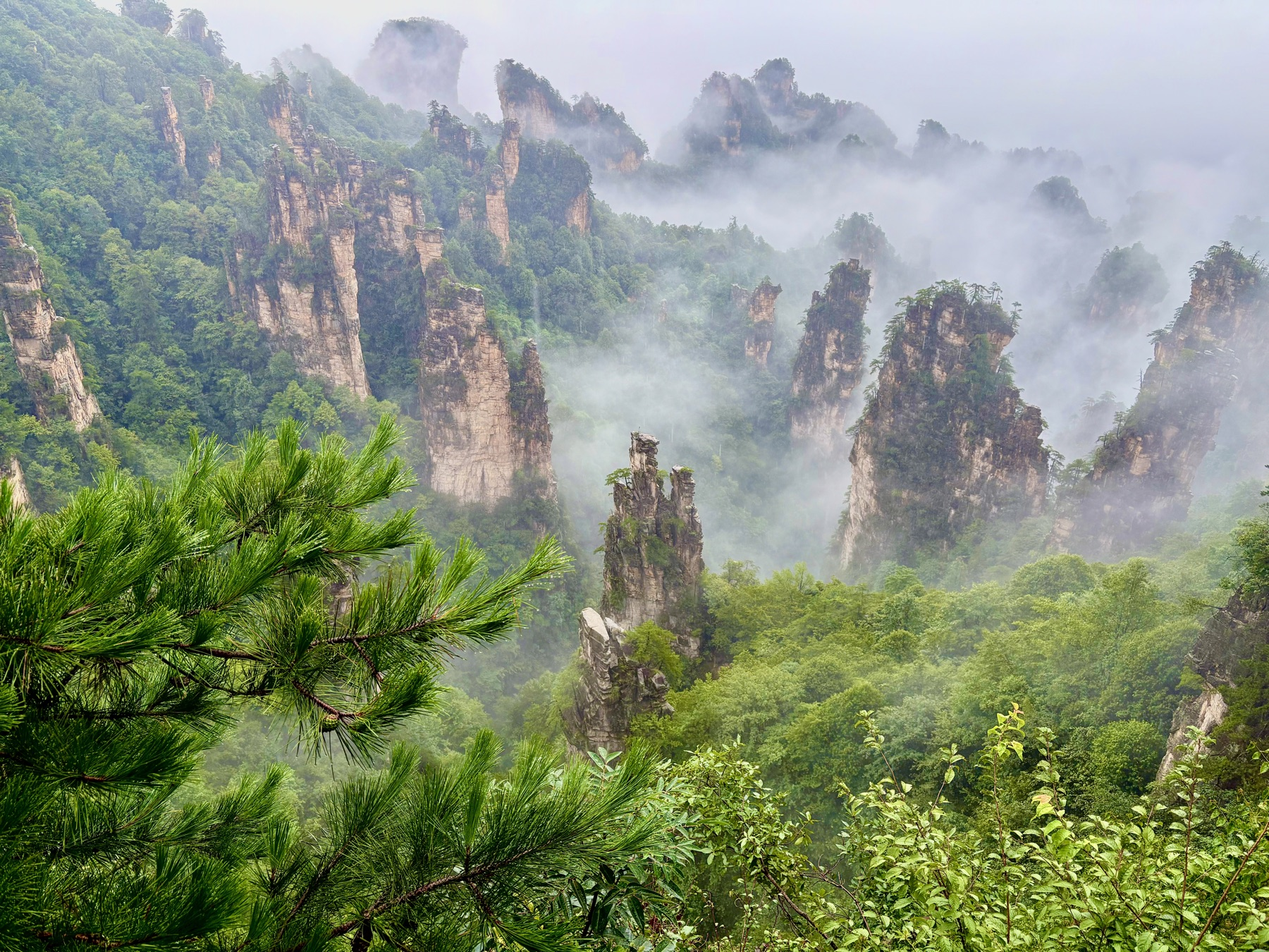
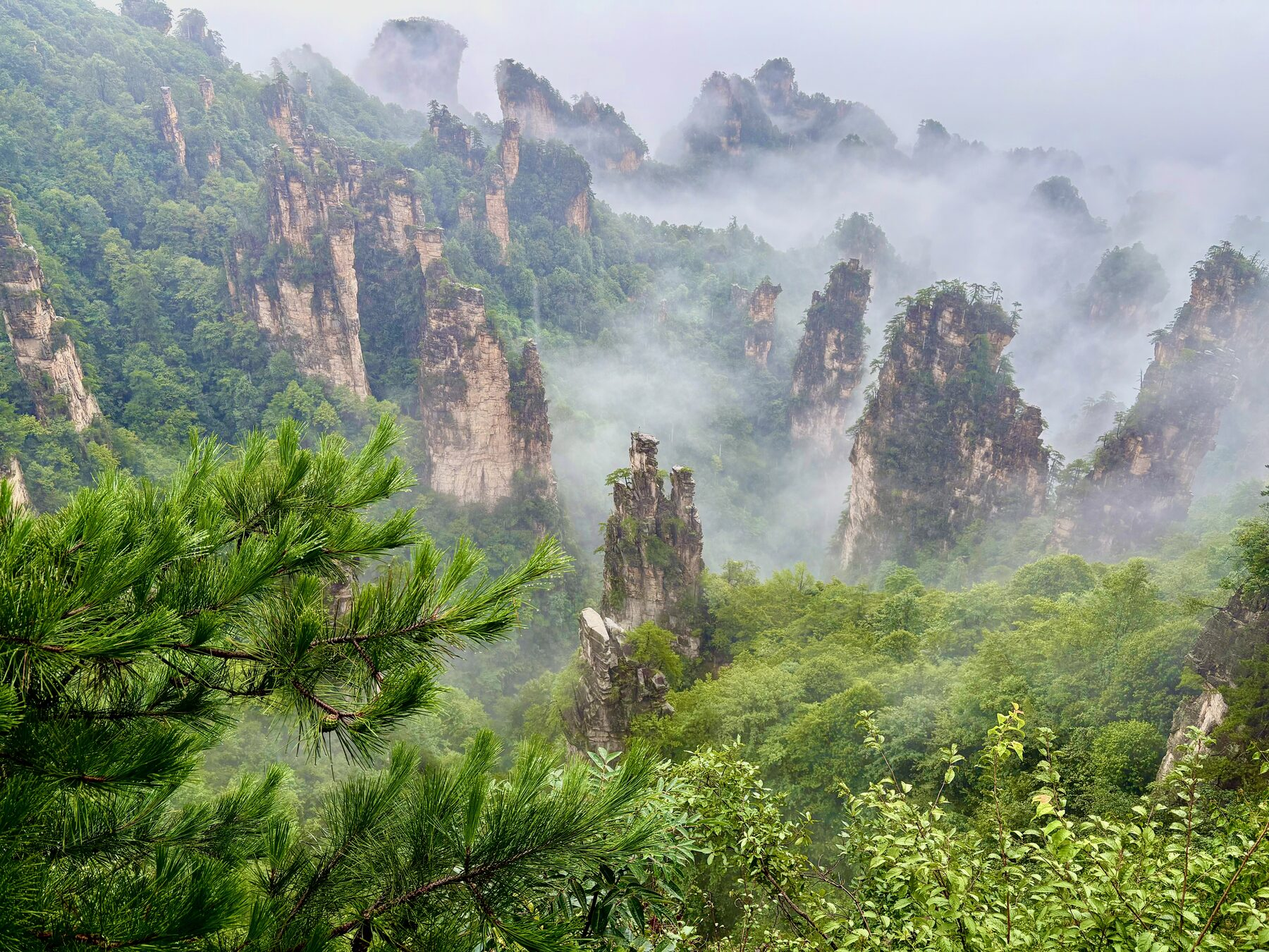
photos

diff --git a/frontend/lib/photos.ts b/frontend/lib/photos.ts
@@ -6,18 +6,68 @@ export interface Photo {
 
 export const photos: Photo[] = [
   {
+    src: "/photos/stars-andromeda1.jpg",
+    alt: "night sky w milky way",
+    caption: "milky way w/ satellite trails",
+  },
+  {
+    src: "/photos/stars-andromeda2.jpg",
+    alt: "night sky w andromeda",
+    caption: "same thing but milky way is a bit more visible. middle-right blurb is andromeda galaxy",
+  },
+  {
+    src: "/photos/mountains1.jpg",
+    alt: "Mountains",
+    caption: "zhangjiajie china",
+  },
+  {
+    src: "/photos/seagull-toronto.jpg",
+    alt: "seagull over cn tower",
+    caption: "i took this one fully zoomed in and it popped into frame",
+  },
+  {
+    src: "/photos/uc.jpg",
+    alt: "UC",
+    caption: "just chilling",
+  },
+  {
     src: "/photos/mountains.jpg",
-    alt: "Mist rolling through sandstone mountain pillars covered in forest",
-    caption: "Fog rolling through the sandstone pillars, minutes after the rain stopped.",
+    alt: "zhangjiajie \"avatar mountains\" ",
+    caption: "\"avatar mountains\", zhangjiajie, china",
   },
   {
-    src: "/photos/sunset.jpg",
-    alt: "A pink and orange sunset over a suburban street with melting snow",
-    caption: "Late-winter sunset on my street, snow still hanging on in the corners.",
+    src: "/photos/backrooms.jpg",
+    alt: "UWaterloo MC",
+    caption: "backrooms? nope, Mathematics & Computer building @ UWaterloo",
   },
   {
-    src: "/photos/milky-way.jpg",
-    alt: "The Milky Way galaxy with a faint meteor streak and Andromeda visible",
-    caption: "The Milky Way on a clear night — if you look closely, that's Andromeda in the lower left.",
+    src: "/photos/ccp.jpg",
+    alt: "CCP",
+    caption: "beijing",
   },
+  {
+    src: "/photos/cherry-blossom.jpg",
+    alt: "Cherry blossom",
+    caption: "John P. Robarts Library @ u of t",
+  },
+  {
+    src: "/photos/countryside.jpg",
+    alt: "China countryside",
+    caption: "countryside in china (from bullet train)",
+  },
+  {
+    src: "/photos/seagull3.jpg",
+    alt: "seagull over lake ontario",
+    caption: "majestic looking seagull",
+  },
+  {
+    src: "/photos/swan1.jpg",
+    alt: "swan",
+    caption: "swan at 5am, somehow looks like an oil painting",
+  },
+  {
+    src: "/photos/toronto.jpg",
+    alt: "Toronto",
+    caption: "toronto",
+  }
 ];

diff --git a/frontend/components/PhotoGallery.tsx b/frontend/components/PhotoGallery.tsx
@@ -26,9 +26,9 @@ export default function PhotoGallery({ photos }: { photos: Photo[] }) {
 
   return (
     <div className="mx-auto w-full max-w-3xl select-none">
-      <div className="relative overflow-hidden">
+      <div className="relative h-[70vh] max-h-[600px] overflow-hidden">
         <div
-          className="flex transition-transform duration-500 ease-out"
+          className="flex h-full transition-transform duration-500 ease-out"
           style={{
             transform: `translateX(calc(${(100 - SLIDE_WIDTH) / 2}% - ${index * SLIDE_WIDTH}%))`,
           }}
@@ -36,14 +36,14 @@ export default function PhotoGallery({ photos }: { photos: Photo[] }) {
           {photos.map((photo, i) => (
             <div
               key={photo.src}
-              className="shrink-0 px-3"
+              className="flex h-full shrink-0 items-center justify-center px-3"
               style={{ width: `${SLIDE_WIDTH}%` }}
               onClick={() => i !== index && goTo(i)}
             >
               <img
                 src={photo.src}
                 alt={photo.alt}
-                className={`aspect-[4/3] w-full rounded-xl border border-line object-cover shadow-sm transition-all duration-500 ${
+                className={`max-h-full max-w-full rounded-xl border border-line object-contain shadow-sm transition-all duration-500 ${
                   i === index ? "opacity-100" : "cursor-pointer opacity-50 scale-95"
                 }`}
               />
